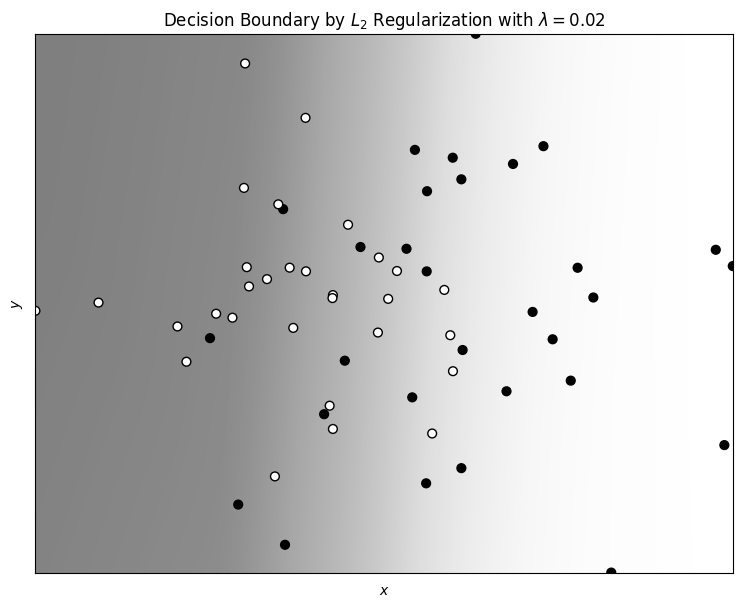
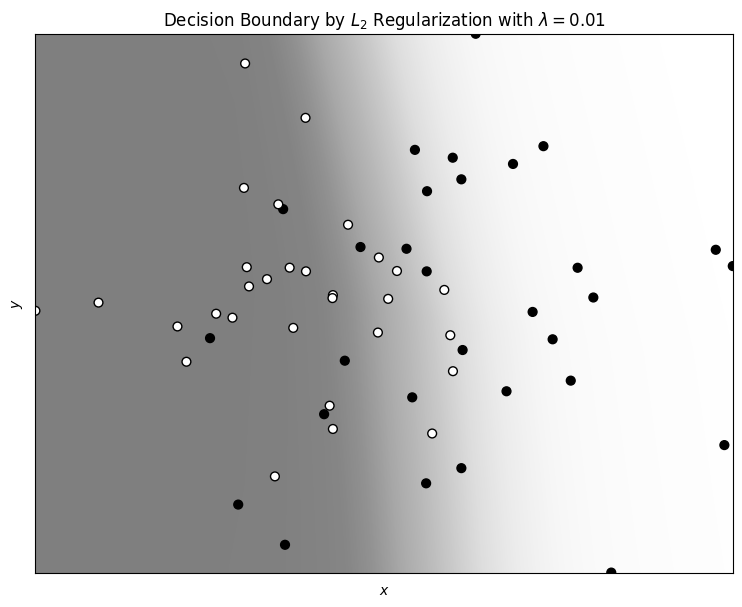
update

Changed region(s): [[0.341, 0.2669, 0.6509, 0.9489], [0.527, 0.0593, 0.5889, 0.089]]

diff --git a/examples/example-04-4-regularization--comparison-of-decision-boundaries.py b/examples/example-04-4-regularization--comparison-of-decision-boundaries.py
@@ -185,8 +185,9 @@ def plot_decision_boundary(xx, yy, z, features, target, file, title):
 
 num_n, num_l, num_epochs = 20, 4, 100
 
+l2_reg_lambdas = [0.0, 0.001, 0.002, 0.005, 0.01, 0.02]
 index = 1
-for l2_reg_lambda in [0.0, 0.001, 0.005, 0.01, 0.02]:
+for l2_reg_lambda in l2_reg_lambdas:
     hist_reg, model_reg = create_and_train_regularized_model(
         train_x, train_y,
         num_neurons=num_n, num_layers=num_l,
